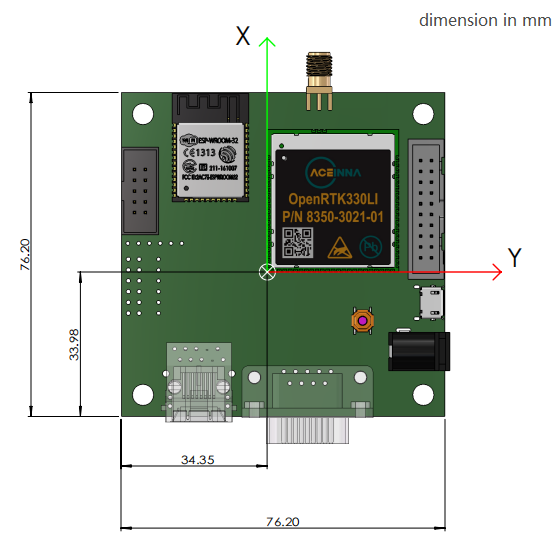
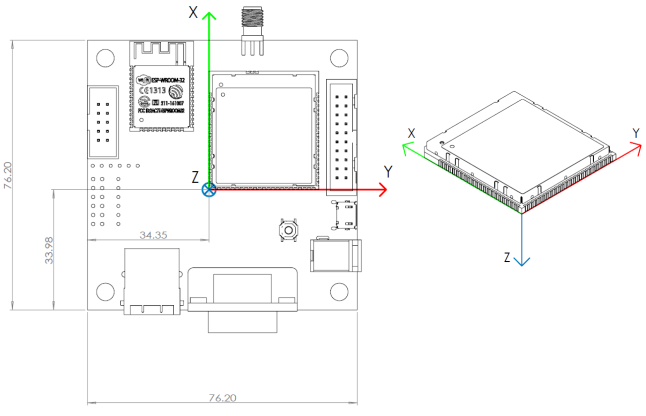
changes on the EVB mechanical drawing with IMU navigation center.

diff --git a/EVK-OpenRTK330LI/mechanical.rst b/EVK-OpenRTK330LI/mechanical.rst
@@ -4,7 +4,7 @@ EVB Mechanical Drawing
 .. contents:: Contents
     :local:
 
-The following mechanical drawing shows the EVB dimension (in mm) and the position of IMU navigation center (the z-axis offset between IMU sensor and EVB PCB board is about 1 mm):
+The following mechanical drawing shows the EVB dimension (in mm) and the position of IMU navigation center. The IMU navigation center is fixed to the left-bottom corner of the OpenRTK330LI module on the EVB. User is recommended to measure the level arm from the GNSS antenna phase center to the IMU Navigation center as accurate as possible.
 
     .. image:: ../media/EVB_IMU_Center_dimension.png
 
